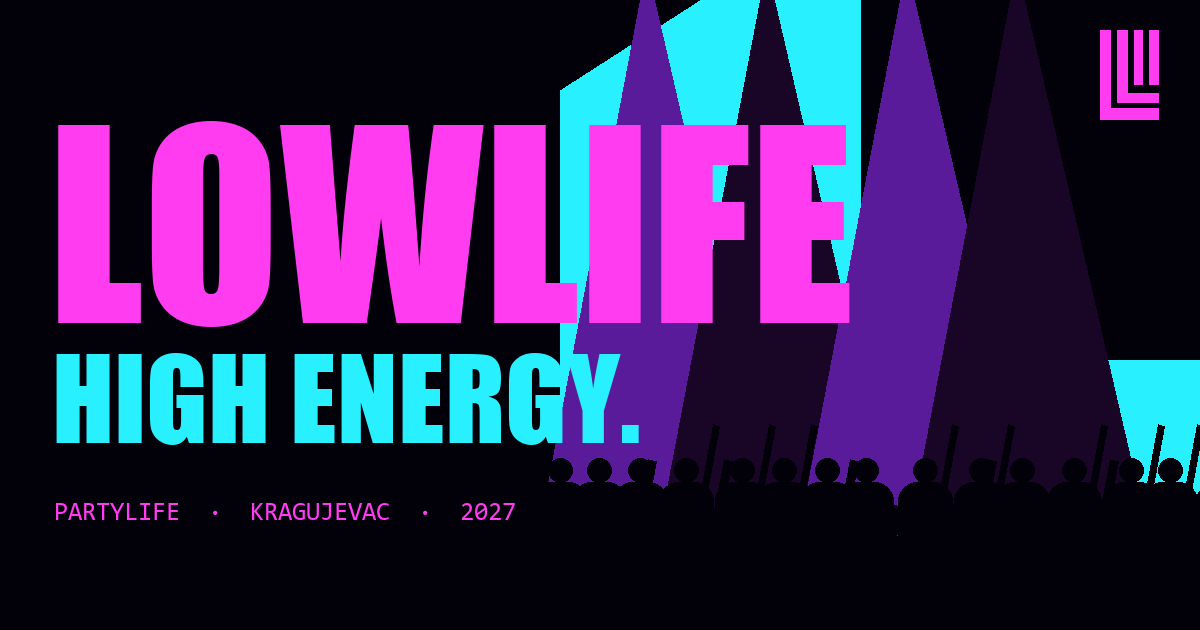
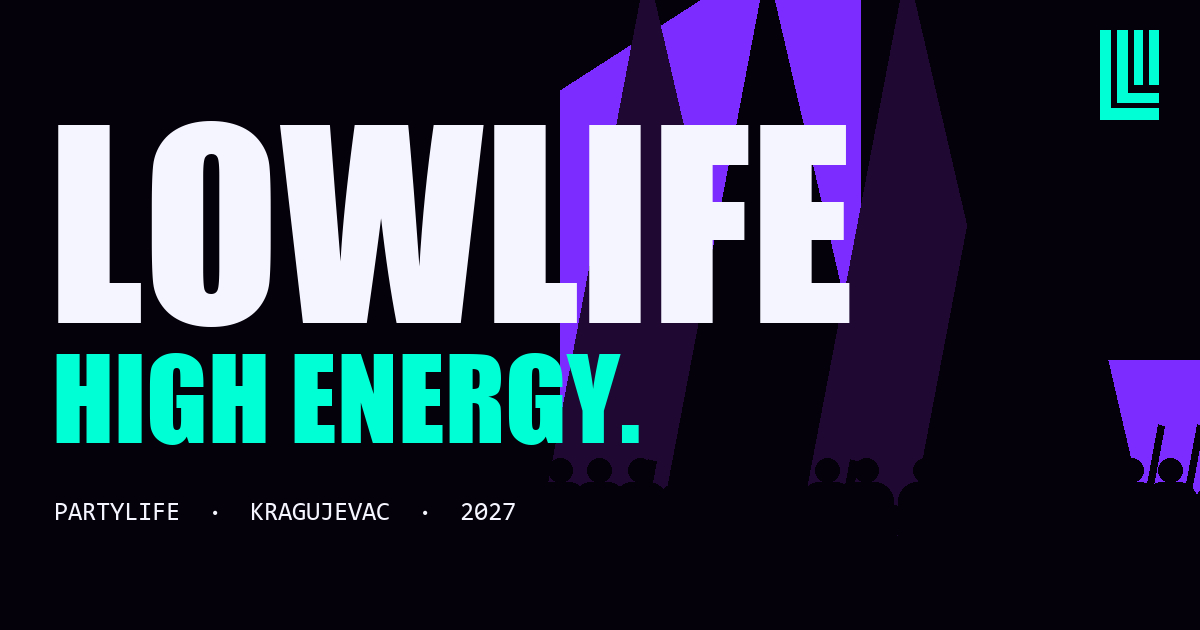
New palette (#04010a #1f0933 #7c2cff #00ffd5 #f5f5ff); hero text without background plates

diff --git a/css/style.css b/css/style.css
@@ -4,9 +4,9 @@
    okvir slika, urez karte i footer akcenat.
    ========================================================================== */
 :root{
-  /* paleta: #020008 · #190526 · #5a1b9a · #28f0ff · #ff3cf0 */
-  --ink:#020008; --deep:#190526; --mid:#5a1b9a; --mute:#28f0ff; --lav:#ff3cf0;
-  --white:var(--lav); --yel:var(--lav); --org:var(--mute); --ink2:var(--deep);
+  /* paleta: #04010a · #1f0933 · #7c2cff · #00ffd5 · #f5f5ff */
+  --ink:#04010a; --deep:#1f0933; --mid:#7c2cff; --mute:#00ffd5; --lav:#f5f5ff;
+  --white:var(--lav); --yel:var(--mute); --org:var(--mid); --ink2:var(--deep);
   --display:'Big Shoulders Display','Anton','Impact',sans-serif;
   --sans:'Inter Tight',system-ui,-apple-system,'Segoe UI',sans-serif;
   --mono:'JetBrains Mono',ui-monospace,Consolas,monospace;
@@ -138,8 +138,7 @@ button{font:inherit;color:inherit;background:none;border:0;padding:0;cursor:poin
 .hero__party{font:900 clamp(20px,2.6vw,40px)/1 var(--display);letter-spacing:.42em;text-transform:uppercase;margin-right:-.42em}
 .hero__mid{grid-area:mid;align-self:center;max-width:48%;padding:2vh 0}
 .hero__slogan{font-size:clamp(70px,11.5vw,230px);line-height:.82;display:flex;flex-direction:column;align-items:flex-start;text-shadow:none}
-.hero__slogan .mask:first-child{color:var(--mute)}
-.hero__slogan .mask:last-child{color:var(--lav)}
+.hero__slogan .mask:last-child{color:var(--mute)}
 .hero__lead{font-size:clamp(17px,1.6vw,24px);max-width:21em;margin:22px 0 28px;}
 .hero__cta{display:flex;flex-wrap:wrap;gap:12px}
 .hero__title{grid-area:title;line-height:.72;white-space:nowrap;overflow:hidden;font-size:clamp(100px,27vw,560px);padding-top:.04em}
@@ -154,7 +153,7 @@ button{font:inherit;color:inherit;background:none;border:0;padding:0;cursor:poin
 .statement__bg{position:absolute;inset:0;z-index:-1;}
 .statement__kick{margin-bottom:16px;}
 .statement__title{font-size:clamp(76px,19vw,360px);line-height:.8;display:flex;flex-direction:column;align-items:flex-start}
-.statement__title .mask:last-child{color:var(--lav)}
+.statement__title .mask:last-child{color:var(--mute)}
 
 /* animirani režim (JS dodaje .is-anim) */
 .stage.is-anim{height:100svh;overflow:hidden}
@@ -221,7 +220,7 @@ button{font:inherit;color:inherit;background:none;border:0;padding:0;cursor:poin
 
 /* ---------- ARHIVA ---------- */
 .archive__head{display:flex;flex-wrap:wrap;justify-content:space-between;align-items:flex-end;gap:24px}
-.archive .yr{color:var(--lav)}
+.archive .yr{color:var(--mute)}
 .archive__note{max-width:24em;font-size:15px;}
 .archive__note a{color:var(--yel)}
 .archive__bar{display:flex;flex-wrap:wrap;gap:10px;justify-content:space-between;margin:clamp(30px,4vw,60px) 0 10px}
@@ -483,12 +482,10 @@ dialog::backdrop{background:var(--ink)}
 }
 
 /* paleta: dim/akcenat po svetlini */
-.archive .giant,.after .giant,.follow .h-xl{color:var(--mute)}
-.archive .giant .y,.after .giant .y,.follow .h-xl .y{color:var(--lav)}
 .gal,.follow{background:var(--deep)}
 .after{background:var(--ink)}
 .gal .h-xl{color:var(--lav)}
-.foot__big .y{color:var(--lav)}
+.foot__big .y{color:var(--mute)}
 .mark--lg{display:block;width:44px;height:66px;margin-bottom:18px;color:var(--lav)}
 
 /* tekst koji je ranije bio providan: sada tačne boje palete */
@@ -500,7 +497,3 @@ dialog::backdrop{background:var(--ink)}
 .poster::before{content:"";position:absolute;right:0;bottom:0;width:50%;height:42%;background:var(--pa);clip-path:polygon(34% 0,100% 0,100% 100%,0 100%,0 22%)}
 .poster--photo::before{display:none}
 
-/* statement: linije kao pune ploče, čitljive preko svakog kadra */
-.statement__title .mask>span{background:var(--ink);color:var(--lav);padding:0 .08em}
-.statement__title .mask:last-child>span{background:var(--mute);color:var(--ink)}
-.statement__title .mask:last-child{color:var(--ink)}

diff --git a/js/art.js b/js/art.js
@@ -3,10 +3,10 @@
 
 /* Samo tačne boje palete, bez providnosti i gradijenata. */
 const TONES = {
-  orange: { bg: '#28f0ff', band: '#5a1b9a', beam: '#5a1b9a', beam2: '#190526', glow: '#5a1b9a', ink: '#020008', dots: '#5a1b9a' },
-  yellow: { bg: '#ff3cf0', band: '#28f0ff', beam: '#28f0ff', beam2: '#5a1b9a', glow: '#28f0ff', ink: '#020008', dots: '#28f0ff' },
-  ink:    { bg: '#190526', band: '#020008', beam: '#5a1b9a', beam2: '#28f0ff', glow: '#5a1b9a', ink: '#020008', dots: '#5a1b9a' },
-  white:  { bg: '#ff3cf0', band: '#28f0ff', beam: '#5a1b9a', beam2: '#28f0ff', glow: '#28f0ff', ink: '#020008', dots: '#28f0ff' },
+  orange: { bg: '#7c2cff', band: '#1f0933', beam: '#1f0933', beam2: '#04010a', glow: '#1f0933', ink: '#04010a', dots: '#1f0933' },
+  yellow: { bg: '#f5f5ff', band: '#7c2cff', beam: '#7c2cff', beam2: '#00ffd5', glow: '#7c2cff', ink: '#04010a', dots: '#7c2cff' },
+  ink:    { bg: '#1f0933', band: '#04010a', beam: '#7c2cff', beam2: '#00ffd5', glow: '#7c2cff', ink: '#04010a', dots: '#7c2cff' },
+  white:  { bg: '#00ffd5', band: '#7c2cff', beam: '#7c2cff', beam2: '#1f0933', glow: '#f5f5ff', ink: '#04010a', dots: '#1f0933' },
 };
 
 function rng(seed) {
@@ -114,6 +114,6 @@ ${sceneInner(kind, r, c)}
 
 /** Typographic poster used when an artist has no photo. */
 const POSTER = [
-  ['#5a1b9a', '#ff3cf0', '#28f0ff'], ['#ff3cf0', '#020008', '#28f0ff'], ['#28f0ff', '#020008', '#5a1b9a'], ['#190526', '#ff3cf0', '#5a1b9a'],
+  ['#7c2cff', '#f5f5ff', '#1f0933'], ['#f5f5ff', '#04010a', '#00ffd5'], ['#00ffd5', '#04010a', '#f5f5ff'], ['#1f0933', '#f5f5ff', '#7c2cff'],
 ];
 export function posterColors(i) { return POSTER[i % POSTER.length]; }

diff --git a/index.html b/index.html
@@ -5,7 +5,7 @@
 <meta name="viewport" content="width=device-width, initial-scale=1, viewport-fit=cover">
 <title>LOWLIFE / PARTYLIFE — Festival, Kragujevac · 2027</title>
 <meta name="description" content="LOWLIFE / PARTYLIFE — festival hip-hopa, trapa i alternative iz Kragujevca. Izdanje 2027: datum, lineup i karte uskoro. Pogledaj arhivu izvođača i atmosferu.">
-<meta name="theme-color" content="#020008">
+<meta name="theme-color" content="#04010a">
 <script>document.documentElement.classList.add("js")</script>
 <link rel="icon" type="image/svg+xml" href="assets/favicon.svg">
 <link rel="apple-touch-icon" href="assets/apple-touch-icon.png">
@@ -311,7 +311,7 @@
   <video id="vmVideo" controls playsinline preload="none"></video>
 </dialog>
 
-<noscript><p style="padding:20px;background:#ff3cf0;color:#020008;position:relative;z-index:99">Za potpun doživljaj uključi JavaScript. Zvanični kanal: instagram.com/lowlifepartylife</p></noscript>
+<noscript><p style="padding:20px;background:#f5f5ff;color:#04010a;position:relative;z-index:99">Za potpun doživljaj uključi JavaScript. Zvanični kanal: instagram.com/lowlifepartylife</p></noscript>
 
 <script src="https://cdnjs.cloudflare.com/ajax/libs/gsap/3.12.5/gsap.min.js"></script>
 <script src="https://cdnjs.cloudflare.com/ajax/libs/gsap/3.12.5/ScrollTrigger.min.js"></script>

diff --git a/js/app.js b/js/app.js
@@ -494,7 +494,7 @@ function heroMotion() {
 /* ======================= footer pulse ======================= */
 function footPulse() {
   const foot = $('#footer'), p = $('#footPulse');
-  p.innerHTML = '<svg viewBox="0 0 100 100" preserveAspectRatio="none" width="100%" height="100%"><polygon points="34,0 100,0 100,100 0,100 0,18" fill="none" stroke="#28f0ff" stroke-width="3" vector-effect="non-scaling-stroke"/></svg>';
+  p.innerHTML = '<svg viewBox="0 0 100 100" preserveAspectRatio="none" width="100%" height="100%"><polygon points="34,0 100,0 100,100 0,100 0,18" fill="none" stroke="#00ffd5" stroke-width="3" vector-effect="non-scaling-stroke"/></svg>';
   Object.assign(p.style, { clipPath: 'none', background: 'none' });
   let raf = 0, x = 0;
   const move = (cx) => { x = cx; if (!raf) raf = requestAnimationFrame(() => { raf = 0; const r = foot.getBoundingClientRect(); p.style.setProperty('--px', Math.max(0, Math.min(r.width - p.offsetWidth, x - r.left - p.offsetWidth / 2)) + 'px'); foot.classList.add('is-pulse'); }); };

diff --git a/README.md b/README.md
@@ -22,7 +22,7 @@ Dev flagovi: `?motion=full` (forsira animirani režim), `?motion=reduced` (mirna
 | Aftermovie | `festivalConfig.aftermovie` |
 | Utisci publike | `testimonials[]` (samo odobreni) |
 | Info, FAQ, kanali, partneri | `info[]`, `faq[]`, `socials[]`, `partners[]` |
-| Boje / tipografija | `:root` u `css/style.css` — paleta #020008 · #190526 · #5a1b9a · #28f0ff · #ff3cf0 |
+| Boje / tipografija | `:root` u `css/style.css` — paleta #04010a · #1f0933 · #7c2cff · #00ffd5 · #f5f5ff |
 | Logo / favicon | `assets/logo.svg` (vektorizovan iz dostavljenog PNG-a), `assets/favicon.svg`, `apple-touch-icon.png` |
 
 ## Šta je ilustrativno
